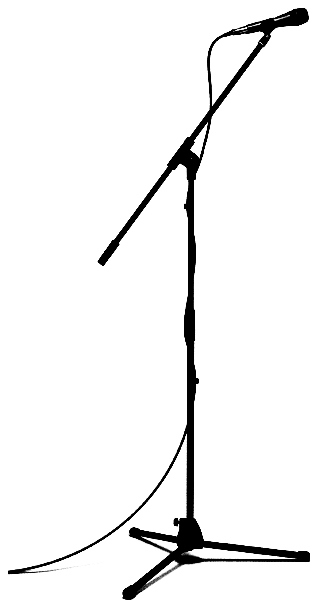
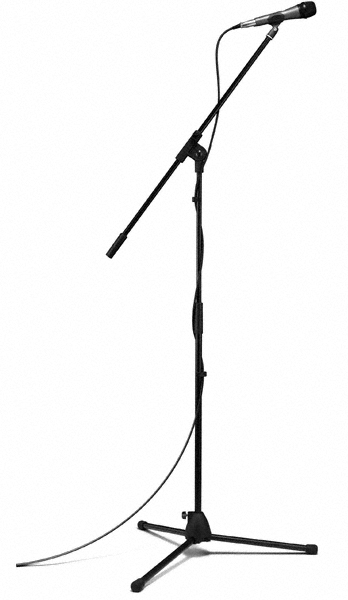
-Atualizado Cabeçalho e rodapé. -Atualizado página de palestras -Atualizado menu

Changed region(s): [[0.0311, 0.0, 0.9627, 1.0]]

diff --git a/palestras.html b/palestras.html
@@ -33,15 +33,16 @@
     <body>
         <header class="col-lg-12 cabecalho">
             <hgroup class="col-lg-12 titulos">
-                <h1>Psicóloga TESTE</h1>
-                <h2>CRP 12345</h2>
+                <h1>Psicóloga Carine Franceschi Saito</h1>
+                <h2>CRP 06/98412</h2>
             </hgroup>
             <nav>
                 <ul class="list-inline menu">
                     <li class="list-inline-item"><a href="index.html" >Início</a></li>
                     <li class="list-inline-item"><a href="perfil.html" >Perfil</a></li>
                     <li class="list-inline-item"><a href="servicos.html" >Serviços</a></li>
-                    <li class="list-inline-item">Menu 4</li>
+                    <li class="list-inline-item"><a href="palestras.html" >Palestras</a></li>
+                    <li class="list-inline-item"><a href="contato.html" >Contato</a></li>
                 </ul>
             </nav>
 
@@ -53,7 +54,7 @@
             <div class="row">
 
 
-                <div class="col-lg-6 offset-lg-2">
+                <div class="col-lg-8">
 
                     <h3 class="conteudo-titulo">PALESTRAS</h3>
 
@@ -79,7 +80,7 @@
                     </ul>                    
                 </div>
                 <div class="col-lg-2">
-                    <img src="imagens/microfone-azul-escuro.jpg" />
+                    <img id="imagen-mic" src="imagens/microphone.png" />
 
                 </div>
 
@@ -93,22 +94,16 @@
             <footer class="container">
                 <div class="row">
                     <section class="col-lg-4 col-md-4">
-                        <h3>texto 1</h3>
-                        <p>Lorem ipsum dolor</p>
-                        <p>Lorem ipsum dolor</p>
-                        <p>Lorem ipsum dolor</p>
+                        <p><a href="http://psicologacarinesaito.blogspot.com.br/">Acesso ao blog</a></p>
+                        <p><a href="http://www.facebook.com/Psicóloga-Carine">Acesso ao facebook</a></p>
                     </section>
-                    <section class="col-lg-4 col-md-4">
-                        <h3>texto 2</h3>
-                        <p>Lorem ipsum dolor</p>
-                        <p>Lorem ipsum dolor</p>
-                        <p>Lorem ipsum dolor</p>
+                    <section class="col-lg-4 col-md-4 text-center">
+                        <p>Psicóloga Carine Franceschi Saito</p>
+                        <p>CRP 06/98412</p>
                     </section>
-                    <section class="col-lg-4 col-md-4">
-                        <h3>texto 3</h3>
-                        <p>Lorem ipsum dolor</p>
-                        <p>Lorem ipsum dolor</p>
-                        <p>Lorem ipsum dolor</p>
+                    <section class="col-lg-4 col-md-4 text-right">
+                        <p>3862-2774 / 96065-1853</p>
+                        <p>cafsaito@gmail.com</p>
                     </section>
                 </div>
             </footer>

diff --git a/contato.html b/contato.html
@@ -33,15 +33,16 @@
     <body>
         <header class="col-lg-12 cabecalho">
             <hgroup class="col-lg-12 titulos">
-                <h1>Psicóloga TESTE</h1>
-                <h2>CRP 12345</h2>
+                <h1>Psicóloga Carine Franceschi Saito</h1>
+                <h2>CRP 06/98412</h2>
             </hgroup>
             <nav>
                 <ul class="list-inline menu">
                     <li class="list-inline-item"><a href="index.html" >Início</a></li>
                     <li class="list-inline-item"><a href="perfil.html" >Perfil</a></li>
                     <li class="list-inline-item"><a href="servicos.html" >Serviços</a></li>
-                    <li class="list-inline-item">Menu 4</li>
+                    <li class="list-inline-item"><a href="palestras.html" >Palestras</a></li>
+                    <li class="list-inline-item"><a href="contato.html" >Contato</a></li>
                 </ul>
             </nav>
 
@@ -104,22 +105,16 @@
             <footer class="container">
                 <div class="row">
                     <section class="col-lg-4 col-md-4">
-                        <h3>texto 1</h3>
-                        <p>Lorem ipsum dolor</p>
-                        <p>Lorem ipsum dolor</p>
-                        <p>Lorem ipsum dolor</p>
+                        <p><a href="http://psicologacarinesaito.blogspot.com.br/">Acesso ao blog</a></p>
+                        <p><a href="http://www.facebook.com/Psicóloga-Carine">Acesso ao facebook</a></p>
                     </section>
-                    <section class="col-lg-4 col-md-4">
-                        <h3>texto 2</h3>
-                        <p>Lorem ipsum dolor</p>
-                        <p>Lorem ipsum dolor</p>
-                        <p>Lorem ipsum dolor</p>
+                    <section class="col-lg-4 col-md-4 text-center">
+                        <p>Psicóloga Carine Franceschi Saito</p>
+                        <p>CRP 06/98412</p>
                     </section>
-                    <section class="col-lg-4 col-md-4">
-                        <h3>texto 3</h3>
-                        <p>Lorem ipsum dolor</p>
-                        <p>Lorem ipsum dolor</p>
-                        <p>Lorem ipsum dolor</p>
+                    <section class="col-lg-4 col-md-4 text-right">
+                        <p>3862-2774 / 96065-1853</p>
+                        <p>cafsaito@gmail.com</p>
                     </section>
                 </div>
             </footer>
@@ -175,7 +170,6 @@
         content: contentString
       });
 
-        infowindow.open(map, marker);
 
   
 

diff --git a/perfil.html b/perfil.html
@@ -32,15 +32,16 @@
     <body>
         <header class="col-lg-12 cabecalho">
             <hgroup class="col-lg-12 titulos">
-                <h1>Psicóloga TESTE</h1>
-                <h2>CRP 12345</h2>
+                <h1>Psicóloga Carine Franceschi Saito</h1>
+                <h2>CRP 06/98412</h2>
             </hgroup>
             <nav>
                 <ul class="list-inline menu">
                     <li class="list-inline-item"><a href="index.html" >Início</a></li>
                     <li class="list-inline-item"><a href="perfil.html" >Perfil</a></li>
                     <li class="list-inline-item"><a href="servicos.html" >Serviços</a></li>
-                    <li class="list-inline-item">Menu 4</li>
+                    <li class="list-inline-item"><a href="palestras.html" >Palestras</a></li>
+                    <li class="list-inline-item"><a href="contato.html" >Contato</a></li>
                 </ul>
             </nav>
 
@@ -165,22 +166,16 @@
             <footer class="container">
                 <div class="row">
                     <section class="col-lg-4 col-md-4">
-                        <h3>texto 1</h3>
-                        <p>Lorem ipsum dolor</p>
-                        <p>Lorem ipsum dolor</p>
-                        <p>Lorem ipsum dolor</p>
+                        <p><a href="http://psicologacarinesaito.blogspot.com.br/">Acesso ao blog</a></p>
+                        <p><a href="http://www.facebook.com/Psicóloga-Carine">Acesso ao facebook</a></p>
                     </section>
-                    <section class="col-lg-4 col-md-4">
-                        <h3>texto 2</h3>
-                        <p>Lorem ipsum dolor</p>
-                        <p>Lorem ipsum dolor</p>
-                        <p>Lorem ipsum dolor</p>
+                    <section class="col-lg-4 col-md-4 text-center">
+                        <p>Psicóloga Carine Franceschi Saito</p>
+                        <p>CRP 06/98412</p>
                     </section>
-                    <section class="col-lg-4 col-md-4">
-                        <h3>texto 3</h3>
-                        <p>Lorem ipsum dolor</p>
-                        <p>Lorem ipsum dolor</p>
-                        <p>Lorem ipsum dolor</p>
+                    <section class="col-lg-4 col-md-4 text-right">
+                        <p>3862-2774 / 96065-1853</p>
+                        <p>cafsaito@gmail.com</p>
                     </section>
                 </div>
             </footer>

diff --git a/servicos.html b/servicos.html
@@ -33,15 +33,16 @@
     <body>
         <header class="col-lg-12 cabecalho">
             <hgroup class="col-lg-12 titulos">
-                <h1>Psicóloga TESTE</h1>
-                <h2>CRP 12345</h2>
+                <h1>Psicóloga Carine Franceschi Saito</h1>
+                <h2>CRP 06/98412</h2>
             </hgroup>
             <nav>
                 <ul class="list-inline menu">
                     <li class="list-inline-item"><a href="index.html" >Início</a></li>
                     <li class="list-inline-item"><a href="perfil.html" >Perfil</a></li>
                     <li class="list-inline-item"><a href="servicos.html" >Serviços</a></li>
-                    <li class="list-inline-item">Menu 4</li>
+                    <li class="list-inline-item"><a href="palestras.html" >Palestras</a></li>
+                    <li class="list-inline-item"><a href="contato.html" >Contato</a></li>
                 </ul>
             </nav>
 
@@ -111,22 +112,16 @@
             <footer class="container">
                 <div class="row">
                     <section class="col-lg-4 col-md-4">
-                        <h3>texto 1</h3>
-                        <p>Lorem ipsum dolor</p>
-                        <p>Lorem ipsum dolor</p>
-                        <p>Lorem ipsum dolor</p>
+                        <p><a href="http://psicologacarinesaito.blogspot.com.br/">Acesso ao blog</a></p>
+                        <p><a href="http://www.facebook.com/Psicóloga-Carine">Acesso ao facebook</a></p>
                     </section>
-                    <section class="col-lg-4 col-md-4">
-                        <h3>texto 2</h3>
-                        <p>Lorem ipsum dolor</p>
-                        <p>Lorem ipsum dolor</p>
-                        <p>Lorem ipsum dolor</p>
+                    <section class="col-lg-4 col-md-4 text-center">
+                        <p>Psicóloga Carine Franceschi Saito</p>
+                        <p>CRP 06/98412</p>
                     </section>
-                    <section class="col-lg-4 col-md-4">
-                        <h3>texto 3</h3>
-                        <p>Lorem ipsum dolor</p>
-                        <p>Lorem ipsum dolor</p>
-                        <p>Lorem ipsum dolor</p>
+                    <section class="col-lg-4 col-md-4 text-right">
+                        <p>3862-2774 / 96065-1853</p>
+                        <p>cafsaito@gmail.com</p>
                     </section>
                 </div>
             </footer>

diff --git a/index.html b/index.html
@@ -40,7 +40,8 @@
                     <li class="list-inline-item"><a href="index.html" >Início</a></li>
                     <li class="list-inline-item"><a href="perfil.html" >Perfil</a></li>
                     <li class="list-inline-item"><a href="servicos.html" >Serviços</a></li>
-                    <li class="list-inline-item">Menu 4</li>
+                    <li class="list-inline-item"><a href="palestras.html" >Palestras</a></li>
+                    <li class="list-inline-item"><a href="contato.html" >Contato</a></li>
                 </ul>
             </nav>
 
@@ -107,22 +108,16 @@
             <footer class="container">
                 <div class="row">
                     <section class="col-lg-4 col-md-4">
-                        <h3>texto 1</h3>
-                        <p>Lorem ipsum dolor</p>
-                        <p>Lorem ipsum dolor</p>
-                        <p>Lorem ipsum dolor</p>
+                        <p><a href="http://psicologacarinesaito.blogspot.com.br/">Acesso ao blog</a></p>
+                        <p><a href="http://www.facebook.com/Psicóloga-Carine">Acesso ao facebook</a></p>
                     </section>
-                    <section class="col-lg-4 col-md-4">
-                        <h3>texto 2</h3>
-                        <p>Lorem ipsum dolor</p>
-                        <p>Lorem ipsum dolor</p>
-                        <p>Lorem ipsum dolor</p>
+                    <section class="col-lg-4 col-md-4 text-center">
+                        <p>Psicóloga Carine Franceschi Saito</p>
+                        <p>CRP 06/98412</p>
                     </section>
-                    <section class="col-lg-4 col-md-4">
-                        <h3>texto 3</h3>
-                        <p>Lorem ipsum dolor</p>
-                        <p>Lorem ipsum dolor</p>
-                        <p>Lorem ipsum dolor</p>
+                    <section class="col-lg-4 col-md-4 text-right">
+                        <p>3862-2774 / 96065-1853</p>
+                        <p>cafsaito@gmail.com</p>
                     </section>
                 </div>
             </footer>

diff --git a/layout.css b/layout.css
@@ -41,19 +41,22 @@ header
 {
 	font-family: 'Libre Baskerville', serif;
 	background-color: #0b3c5d;
-	color: #0b3c5d;
+	color: #65a6cc;
 }
 
 .titulos
 {
 	text-align: center;
 	margin-bottom: 3rem;
+	text-shadow: 2px 2px #fff;
+
 }
 
 .titulos h1
 {
 	font-size: 32px;
 	font-weight: bold;
+
 }
 
 .titulos h2
@@ -63,7 +66,7 @@ header
 
 .menu
 {
-	background-color: #0b3c5d;
+	background-color: #65a6cc;
 	padding: 10px 0px;
 	margin-bottom: 0px;
 	margin-top: 20px;
@@ -108,15 +111,24 @@ header
 {
 	color: white;
 	padding: 20px 0px;
-	background-color: #0b3c5d;
+	background-color: #65a6cc;
 }
 
 .rodape p
 {
+	font-size: 1.1rem;
 	margin: 0px;
 	color: white;
 	
 }
+
+.rodape a
+{
+	color: white;
+	text-decoration: underline;	
+}
+
+
 
 .img-height
 {
@@ -265,4 +277,10 @@ header
 	background-position: center center;
 	background-size: cover;
 	height: 300px; 
+}
+
+
+#imagen-mic
+{
+	max-height: 430px;
 }
